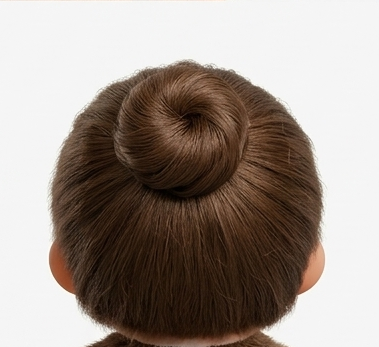
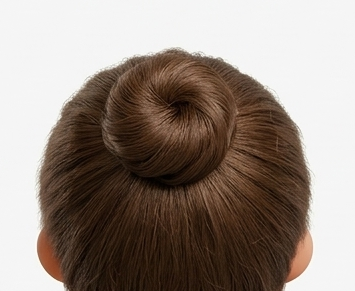
fix: 몽치치 머리만 타이트 크롭 + 클릭 영역 정밀 재조정 (#80)
- 정면: 원본 상단 클로즈업 사용 (606x417), 턱 아래 잘라냄
- 후면: 뒤통수+번만 크롭 (355x291)
- 정면 클릭 영역: 이마(y=120), 눈썹(y=240), 미간(y=265), 관자놀이(y=280) 실제 얼굴에 맞게 배치
- 후면 클릭 영역: 후두부(y=165) 뒤통수 중앙 배치
- index.html + quick.html 양쪽 동일 적용
- SW 캐시 v9f→v9g

https://claude.ai/code/session_014NcaAAHWwF8cHykZzD5x4U

diff --git a/quick/index.html b/quick/index.html
@@ -302,25 +302,25 @@ function getHeadSVG(prefix) {
       <div style="font-size:.6rem;color:#999;font-weight:600;letter-spacing:.08em;margin-bottom:2px">정면</div>
       <div style="position:relative;display:inline-block;width:170px;max-width:44vw">
         <img src="../icons/head-front.png" alt="정면" style="width:100%;border-radius:10px;pointer-events:none">
-        <svg viewBox="0 0 378 347" style="position:absolute;top:0;left:0;width:100%;height:100%">
-          <ellipse id="${prefix}l-forehead" cx="120" cy="95" rx="52" ry="32" fill="rgba(59,130,246,0.10)" stroke="#3b82f6" stroke-width="2" style="cursor:pointer" onclick="toggleHeadSite('left','이마')"/>
-          <text x="120" y="100" text-anchor="middle" font-size="16" font-weight="700" fill="#3b82f6" style="pointer-events:none" opacity=".9">이마</text>
-          <ellipse id="${prefix}r-forehead" cx="258" cy="95" rx="52" ry="32" fill="rgba(239,68,68,0.10)" stroke="#ef4444" stroke-width="2" style="cursor:pointer" onclick="toggleHeadSite('right','이마')"/>
-          <text x="258" y="100" text-anchor="middle" font-size="16" font-weight="700" fill="#ef4444" style="pointer-events:none" opacity=".9">이마</text>
-          <ellipse id="${prefix}l-brow" cx="138" cy="168" rx="32" ry="14" fill="rgba(59,130,246,0.10)" stroke="#3b82f6" stroke-width="2" style="cursor:pointer" onclick="toggleHeadSite('left','눈썹부위')"/>
-          <text x="138" y="173" text-anchor="middle" font-size="13" font-weight="700" fill="#3b82f6" style="pointer-events:none" opacity=".9">눈썹</text>
-          <ellipse id="${prefix}r-brow" cx="240" cy="168" rx="32" ry="14" fill="rgba(239,68,68,0.10)" stroke="#ef4444" stroke-width="2" style="cursor:pointer" onclick="toggleHeadSite('right','눈썹부위')"/>
-          <text x="240" y="173" text-anchor="middle" font-size="13" font-weight="700" fill="#ef4444" style="pointer-events:none" opacity=".9">눈썹</text>
-          <ellipse id="${prefix}c-glabella" cx="189" cy="185" rx="28" ry="16" fill="rgba(168,85,247,0.10)" stroke="#a855f7" stroke-width="2" style="cursor:pointer" onclick="toggleHeadSite('both','미간')"/>
-          <text x="189" y="190" text-anchor="middle" font-size="14" font-weight="800" fill="#a855f7" style="pointer-events:none" opacity=".9">미간</text>
-          <ellipse id="${prefix}l-temple" cx="52" cy="195" rx="28" ry="42" fill="rgba(59,130,246,0.10)" stroke="#3b82f6" stroke-width="2" style="cursor:pointer" onclick="toggleHeadSite('left','관자놀이')"/>
-          <text x="52" y="190" text-anchor="middle" font-size="11" font-weight="700" fill="#3b82f6" style="pointer-events:none" opacity=".9">관자</text>
-          <text x="52" y="204" text-anchor="middle" font-size="11" font-weight="700" fill="#3b82f6" style="pointer-events:none" opacity=".9">놀이</text>
-          <ellipse id="${prefix}r-temple" cx="326" cy="195" rx="28" ry="42" fill="rgba(239,68,68,0.10)" stroke="#ef4444" stroke-width="2" style="cursor:pointer" onclick="toggleHeadSite('right','관자놀이')"/>
-          <text x="326" y="190" text-anchor="middle" font-size="11" font-weight="700" fill="#ef4444" style="pointer-events:none" opacity=".9">관자</text>
-          <text x="326" y="204" text-anchor="middle" font-size="11" font-weight="700" fill="#ef4444" style="pointer-events:none" opacity=".9">놀이</text>
-          <text x="90" y="338" text-anchor="middle" font-size="13" fill="#3b82f6" font-weight="600" opacity=".8">← 왼쪽</text>
-          <text x="288" y="338" text-anchor="middle" font-size="13" fill="#ef4444" font-weight="600" opacity=".8">오른쪽 →</text>
+        <svg viewBox="0 0 606 417" style="position:absolute;top:0;left:0;width:100%;height:100%">
+          <ellipse id="${prefix}l-forehead" cx="195" cy="120" rx="80" ry="45" fill="rgba(59,130,246,0.10)" stroke="#3b82f6" stroke-width="2.5" style="cursor:pointer" onclick="toggleHeadSite('left','이마')"/>
+          <text x="195" y="126" text-anchor="middle" font-size="22" font-weight="700" fill="#3b82f6" style="pointer-events:none" opacity=".9">이마</text>
+          <ellipse id="${prefix}r-forehead" cx="411" cy="120" rx="80" ry="45" fill="rgba(239,68,68,0.10)" stroke="#ef4444" stroke-width="2.5" style="cursor:pointer" onclick="toggleHeadSite('right','이마')"/>
+          <text x="411" y="126" text-anchor="middle" font-size="22" font-weight="700" fill="#ef4444" style="pointer-events:none" opacity=".9">이마</text>
+          <ellipse id="${prefix}l-brow" cx="220" cy="240" rx="50" ry="20" fill="rgba(59,130,246,0.10)" stroke="#3b82f6" stroke-width="2.5" style="cursor:pointer" onclick="toggleHeadSite('left','눈썹부위')"/>
+          <text x="220" y="246" text-anchor="middle" font-size="18" font-weight="700" fill="#3b82f6" style="pointer-events:none" opacity=".9">눈썹</text>
+          <ellipse id="${prefix}r-brow" cx="386" cy="240" rx="50" ry="20" fill="rgba(239,68,68,0.10)" stroke="#ef4444" stroke-width="2.5" style="cursor:pointer" onclick="toggleHeadSite('right','눈썹부위')"/>
+          <text x="386" y="246" text-anchor="middle" font-size="18" font-weight="700" fill="#ef4444" style="pointer-events:none" opacity=".9">눈썹</text>
+          <ellipse id="${prefix}c-glabella" cx="303" cy="265" rx="40" ry="22" fill="rgba(168,85,247,0.10)" stroke="#a855f7" stroke-width="2.5" style="cursor:pointer" onclick="toggleHeadSite('both','미간')"/>
+          <text x="303" y="271" text-anchor="middle" font-size="20" font-weight="800" fill="#a855f7" style="pointer-events:none" opacity=".9">미간</text>
+          <ellipse id="${prefix}l-temple" cx="68" cy="280" rx="45" ry="60" fill="rgba(59,130,246,0.10)" stroke="#3b82f6" stroke-width="2.5" style="cursor:pointer" onclick="toggleHeadSite('left','관자놀이')"/>
+          <text x="68" y="275" text-anchor="middle" font-size="16" font-weight="700" fill="#3b82f6" style="pointer-events:none" opacity=".9">관자</text>
+          <text x="68" y="294" text-anchor="middle" font-size="16" font-weight="700" fill="#3b82f6" style="pointer-events:none" opacity=".9">놀이</text>
+          <ellipse id="${prefix}r-temple" cx="538" cy="280" rx="45" ry="60" fill="rgba(239,68,68,0.10)" stroke="#ef4444" stroke-width="2.5" style="cursor:pointer" onclick="toggleHeadSite('right','관자놀이')"/>
+          <text x="538" y="275" text-anchor="middle" font-size="16" font-weight="700" fill="#ef4444" style="pointer-events:none" opacity=".9">관자</text>
+          <text x="538" y="294" text-anchor="middle" font-size="16" font-weight="700" fill="#ef4444" style="pointer-events:none" opacity=".9">놀이</text>
+          <text x="150" y="408" text-anchor="middle" font-size="18" fill="#3b82f6" font-weight="600" opacity=".8">← 왼쪽</text>
+          <text x="456" y="408" text-anchor="middle" font-size="18" fill="#ef4444" font-weight="600" opacity=".8">오른쪽 →</text>
         </svg>
       </div>
     </div>
@@ -328,13 +328,13 @@ function getHeadSVG(prefix) {
       <div style="font-size:.6rem;color:#999;font-weight:600;letter-spacing:.08em;margin-bottom:2px">후면</div>
       <div style="position:relative;display:inline-block;width:170px;max-width:44vw">
         <img src="../icons/head-back.png" alt="후면" style="width:100%;border-radius:10px;pointer-events:none">
-        <svg viewBox="0 0 379 347" style="position:absolute;top:0;left:0;width:100%;height:100%">
-          <ellipse id="${prefix}l-occipital" cx="125" cy="195" rx="62" ry="65" fill="rgba(59,130,246,0.10)" stroke="#3b82f6" stroke-width="2" style="cursor:pointer" onclick="toggleHeadSite('left','후두부')"/>
-          <text x="125" y="200" text-anchor="middle" font-size="16" font-weight="700" fill="#3b82f6" style="pointer-events:none" opacity=".9">후두부</text>
-          <ellipse id="${prefix}r-occipital" cx="254" cy="195" rx="62" ry="65" fill="rgba(239,68,68,0.10)" stroke="#ef4444" stroke-width="2" style="cursor:pointer" onclick="toggleHeadSite('right','후두부')"/>
-          <text x="254" y="200" text-anchor="middle" font-size="16" font-weight="700" fill="#ef4444" style="pointer-events:none" opacity=".9">후두부</text>
-          <text x="125" y="338" text-anchor="middle" font-size="13" fill="#3b82f6" font-weight="600" opacity=".8">← 왼쪽</text>
-          <text x="254" y="338" text-anchor="middle" font-size="13" fill="#ef4444" font-weight="600" opacity=".8">오른쪽 →</text>
+        <svg viewBox="0 0 355 291" style="position:absolute;top:0;left:0;width:100%;height:100%">
+          <ellipse id="${prefix}l-occipital" cx="115" cy="165" rx="65" ry="60" fill="rgba(59,130,246,0.10)" stroke="#3b82f6" stroke-width="2.5" style="cursor:pointer" onclick="toggleHeadSite('left','후두부')"/>
+          <text x="115" y="170" text-anchor="middle" font-size="18" font-weight="700" fill="#3b82f6" style="pointer-events:none" opacity=".9">후두부</text>
+          <ellipse id="${prefix}r-occipital" cx="240" cy="165" rx="65" ry="60" fill="rgba(239,68,68,0.10)" stroke="#ef4444" stroke-width="2.5" style="cursor:pointer" onclick="toggleHeadSite('right','후두부')"/>
+          <text x="240" y="170" text-anchor="middle" font-size="18" font-weight="700" fill="#ef4444" style="pointer-events:none" opacity=".9">후두부</text>
+          <text x="115" y="282" text-anchor="middle" font-size="14" fill="#3b82f6" font-weight="600" opacity=".8">← 왼쪽</text>
+          <text x="240" y="282" text-anchor="middle" font-size="14" fill="#ef4444" font-weight="600" opacity=".8">오른쪽 →</text>
         </svg>
       </div>
     </div>

diff --git a/index.html b/index.html
@@ -9001,25 +9001,25 @@ function getMainHeadSVG() {
       <div style="font-size:.68rem;color:var(--mu);font-weight:600;letter-spacing:.08em;margin-bottom:4px">정면</div>
       <div style="position:relative;display:inline-block;width:180px;max-width:44vw">
         <img src="icons/head-front.png" alt="정면" style="width:100%;border-radius:10px;pointer-events:none">
-        <svg viewBox="0 0 378 347" style="position:absolute;top:0;left:0;width:100%;height:100%">
-          <ellipse id="${p}l-forehead" cx="120" cy="95" rx="52" ry="32" fill="rgba(59,130,246,0.10)" stroke="#3b82f6" stroke-width="2" style="cursor:pointer" onclick="toggleMainSite('left','이마')"/>
-          <text x="120" y="100" text-anchor="middle" font-size="16" font-weight="700" fill="#3b82f6" style="pointer-events:none" opacity=".9">이마</text>
-          <ellipse id="${p}r-forehead" cx="258" cy="95" rx="52" ry="32" fill="rgba(239,68,68,0.10)" stroke="#ef4444" stroke-width="2" style="cursor:pointer" onclick="toggleMainSite('right','이마')"/>
-          <text x="258" y="100" text-anchor="middle" font-size="16" font-weight="700" fill="#ef4444" style="pointer-events:none" opacity=".9">이마</text>
-          <ellipse id="${p}l-brow" cx="138" cy="168" rx="32" ry="14" fill="rgba(59,130,246,0.10)" stroke="#3b82f6" stroke-width="2" style="cursor:pointer" onclick="toggleMainSite('left','눈썹부위')"/>
-          <text x="138" y="173" text-anchor="middle" font-size="13" font-weight="700" fill="#3b82f6" style="pointer-events:none" opacity=".9">눈썹</text>
-          <ellipse id="${p}r-brow" cx="240" cy="168" rx="32" ry="14" fill="rgba(239,68,68,0.10)" stroke="#ef4444" stroke-width="2" style="cursor:pointer" onclick="toggleMainSite('right','눈썹부위')"/>
-          <text x="240" y="173" text-anchor="middle" font-size="13" font-weight="700" fill="#ef4444" style="pointer-events:none" opacity=".9">눈썹</text>
-          <ellipse id="${p}c-glabella" cx="189" cy="185" rx="28" ry="16" fill="rgba(168,85,247,0.10)" stroke="#a855f7" stroke-width="2" style="cursor:pointer" onclick="toggleMainSite('both','미간')"/>
-          <text x="189" y="190" text-anchor="middle" font-size="14" font-weight="800" fill="#a855f7" style="pointer-events:none" opacity=".9">미간</text>
-          <ellipse id="${p}l-temple" cx="52" cy="195" rx="28" ry="42" fill="rgba(59,130,246,0.10)" stroke="#3b82f6" stroke-width="2" style="cursor:pointer" onclick="toggleMainSite('left','관자놀이')"/>
-          <text x="52" y="190" text-anchor="middle" font-size="11" font-weight="700" fill="#3b82f6" style="pointer-events:none" opacity=".9">관자</text>
-          <text x="52" y="204" text-anchor="middle" font-size="11" font-weight="700" fill="#3b82f6" style="pointer-events:none" opacity=".9">놀이</text>
-          <ellipse id="${p}r-temple" cx="326" cy="195" rx="28" ry="42" fill="rgba(239,68,68,0.10)" stroke="#ef4444" stroke-width="2" style="cursor:pointer" onclick="toggleMainSite('right','관자놀이')"/>
-          <text x="326" y="190" text-anchor="middle" font-size="11" font-weight="700" fill="#ef4444" style="pointer-events:none" opacity=".9">관자</text>
-          <text x="326" y="204" text-anchor="middle" font-size="11" font-weight="700" fill="#ef4444" style="pointer-events:none" opacity=".9">놀이</text>
-          <text x="90" y="338" text-anchor="middle" font-size="13" fill="#3b82f6" font-weight="600" opacity=".8">← 왼쪽</text>
-          <text x="288" y="338" text-anchor="middle" font-size="13" fill="#ef4444" font-weight="600" opacity=".8">오른쪽 →</text>
+        <svg viewBox="0 0 606 417" style="position:absolute;top:0;left:0;width:100%;height:100%">
+          <ellipse id="${p}l-forehead" cx="195" cy="120" rx="80" ry="45" fill="rgba(59,130,246,0.10)" stroke="#3b82f6" stroke-width="2.5" style="cursor:pointer" onclick="toggleMainSite('left','이마')"/>
+          <text x="195" y="126" text-anchor="middle" font-size="22" font-weight="700" fill="#3b82f6" style="pointer-events:none" opacity=".9">이마</text>
+          <ellipse id="${p}r-forehead" cx="411" cy="120" rx="80" ry="45" fill="rgba(239,68,68,0.10)" stroke="#ef4444" stroke-width="2.5" style="cursor:pointer" onclick="toggleMainSite('right','이마')"/>
+          <text x="411" y="126" text-anchor="middle" font-size="22" font-weight="700" fill="#ef4444" style="pointer-events:none" opacity=".9">이마</text>
+          <ellipse id="${p}l-brow" cx="220" cy="240" rx="50" ry="20" fill="rgba(59,130,246,0.10)" stroke="#3b82f6" stroke-width="2.5" style="cursor:pointer" onclick="toggleMainSite('left','눈썹부위')"/>
+          <text x="220" y="246" text-anchor="middle" font-size="18" font-weight="700" fill="#3b82f6" style="pointer-events:none" opacity=".9">눈썹</text>
+          <ellipse id="${p}r-brow" cx="386" cy="240" rx="50" ry="20" fill="rgba(239,68,68,0.10)" stroke="#ef4444" stroke-width="2.5" style="cursor:pointer" onclick="toggleMainSite('right','눈썹부위')"/>
+          <text x="386" y="246" text-anchor="middle" font-size="18" font-weight="700" fill="#ef4444" style="pointer-events:none" opacity=".9">눈썹</text>
+          <ellipse id="${p}c-glabella" cx="303" cy="265" rx="40" ry="22" fill="rgba(168,85,247,0.10)" stroke="#a855f7" stroke-width="2.5" style="cursor:pointer" onclick="toggleMainSite('both','미간')"/>
+          <text x="303" y="271" text-anchor="middle" font-size="20" font-weight="800" fill="#a855f7" style="pointer-events:none" opacity=".9">미간</text>
+          <ellipse id="${p}l-temple" cx="68" cy="280" rx="45" ry="60" fill="rgba(59,130,246,0.10)" stroke="#3b82f6" stroke-width="2.5" style="cursor:pointer" onclick="toggleMainSite('left','관자놀이')"/>
+          <text x="68" y="275" text-anchor="middle" font-size="16" font-weight="700" fill="#3b82f6" style="pointer-events:none" opacity=".9">관자</text>
+          <text x="68" y="294" text-anchor="middle" font-size="16" font-weight="700" fill="#3b82f6" style="pointer-events:none" opacity=".9">놀이</text>
+          <ellipse id="${p}r-temple" cx="538" cy="280" rx="45" ry="60" fill="rgba(239,68,68,0.10)" stroke="#ef4444" stroke-width="2.5" style="cursor:pointer" onclick="toggleMainSite('right','관자놀이')"/>
+          <text x="538" y="275" text-anchor="middle" font-size="16" font-weight="700" fill="#ef4444" style="pointer-events:none" opacity=".9">관자</text>
+          <text x="538" y="294" text-anchor="middle" font-size="16" font-weight="700" fill="#ef4444" style="pointer-events:none" opacity=".9">놀이</text>
+          <text x="150" y="408" text-anchor="middle" font-size="18" fill="#3b82f6" font-weight="600" opacity=".8">← 왼쪽</text>
+          <text x="456" y="408" text-anchor="middle" font-size="18" fill="#ef4444" font-weight="600" opacity=".8">오른쪽 →</text>
         </svg>
       </div>
     </div>
@@ -9027,13 +9027,13 @@ function getMainHeadSVG() {
       <div style="font-size:.68rem;color:var(--mu);font-weight:600;letter-spacing:.08em;margin-bottom:4px">후면</div>
       <div style="position:relative;display:inline-block;width:180px;max-width:44vw">
         <img src="icons/head-back.png" alt="후면" style="width:100%;border-radius:10px;pointer-events:none">
-        <svg viewBox="0 0 379 347" style="position:absolute;top:0;left:0;width:100%;height:100%">
-          <ellipse id="${p}l-occipital" cx="125" cy="195" rx="62" ry="65" fill="rgba(59,130,246,0.10)" stroke="#3b82f6" stroke-width="2" style="cursor:pointer" onclick="toggleMainSite('left','후두부')"/>
-          <text x="125" y="200" text-anchor="middle" font-size="16" font-weight="700" fill="#3b82f6" style="pointer-events:none" opacity=".9">후두부</text>
-          <ellipse id="${p}r-occipital" cx="254" cy="195" rx="62" ry="65" fill="rgba(239,68,68,0.10)" stroke="#ef4444" stroke-width="2" style="cursor:pointer" onclick="toggleMainSite('right','후두부')"/>
-          <text x="254" y="200" text-anchor="middle" font-size="16" font-weight="700" fill="#ef4444" style="pointer-events:none" opacity=".9">후두부</text>
-          <text x="125" y="338" text-anchor="middle" font-size="13" fill="#3b82f6" font-weight="600" opacity=".8">← 왼쪽</text>
-          <text x="254" y="338" text-anchor="middle" font-size="13" fill="#ef4444" font-weight="600" opacity=".8">오른쪽 →</text>
+        <svg viewBox="0 0 355 291" style="position:absolute;top:0;left:0;width:100%;height:100%">
+          <ellipse id="${p}l-occipital" cx="115" cy="165" rx="65" ry="60" fill="rgba(59,130,246,0.10)" stroke="#3b82f6" stroke-width="2.5" style="cursor:pointer" onclick="toggleMainSite('left','후두부')"/>
+          <text x="115" y="170" text-anchor="middle" font-size="18" font-weight="700" fill="#3b82f6" style="pointer-events:none" opacity=".9">후두부</text>
+          <ellipse id="${p}r-occipital" cx="240" cy="165" rx="65" ry="60" fill="rgba(239,68,68,0.10)" stroke="#ef4444" stroke-width="2.5" style="cursor:pointer" onclick="toggleMainSite('right','후두부')"/>
+          <text x="240" y="170" text-anchor="middle" font-size="18" font-weight="700" fill="#ef4444" style="pointer-events:none" opacity=".9">후두부</text>
+          <text x="115" y="282" text-anchor="middle" font-size="14" fill="#3b82f6" font-weight="600" opacity=".8">← 왼쪽</text>
+          <text x="240" y="282" text-anchor="middle" font-size="14" fill="#ef4444" font-weight="600" opacity=".8">오른쪽 →</text>
         </svg>
       </div>
     </div>

diff --git a/sw.js b/sw.js
@@ -1,4 +1,4 @@
-const CACHE_NAME = 'orangi-health-v9f';
+const CACHE_NAME = 'orangi-health-v9g';
 const PRECACHE = [
   './index.html',
   './style.css',
